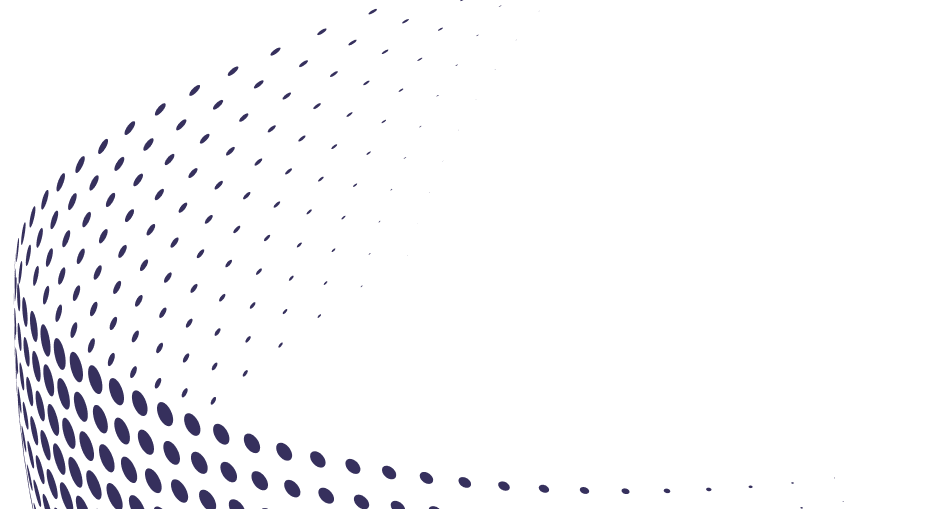
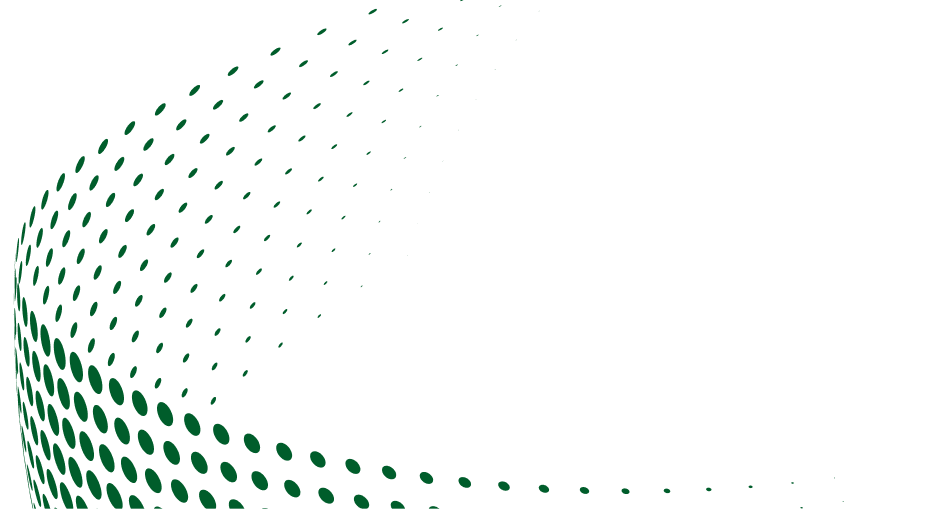
nwe

diff --git a/index-3-one-page.html b/index-3-one-page.html
@@ -1120,89 +1120,13 @@
             </div>
         </section>
         <!-- Blog End -->
-        <div class="client-carousel @@extraClassName">
-            <div class="container">
-                <div class="client-carousel__one eduact-owl__carousel owl-theme owl-carousel" data-owl-options='{
-            "items": 5,
-            "margin": 65,
-            "smartSpeed": 700,
-            "loop":true,
-            "autoplay": 6000,
-            "nav":false,
-            "dots":false,
-            "navText": ["<span class=\"fa fa-angle-left\"></span>","<span class=\"fa fa-angle-right\"></span>"],
-            "responsive":{
-                "0":{
-                    "items":1,
-                    "margin": 0
-                },
-                "450":{
-                    "items":2,
-                    "margin": 0
-                },
-                "768":{
-                    "items":3,
-                    "margin": 40
-                },
-                "992":{
-                    "items": 4,
-                    "margin": 40
-                },
-                "1200":{
-                    "items": 5
-                }
-            }
-            }'>
-                    <div class="client-carousel__one__item">
-                        <img class="client-carousel__normal" src="assets/images/brand/brand-1-1.png" alt="eduact">
-                        <img class="client-carousel__hover" src="assets/images/brand/brand-1-1.png" alt="eduact">
-                    </div><!-- /.owl-slide-item-->
-                    <div class="client-carousel__one__item">
-                        <img class="client-carousel__normal" src="assets/images/brand/brand-1-1.png" alt="eduact">
-                        <img class="client-carousel__hover" src="assets/images/brand/brand-1-1.png" alt="eduact">
-                    </div><!-- /.owl-slide-item-->
-                    <div class="client-carousel__one__item">
-                        <img class="client-carousel__normal" src="assets/images/brand/brand-1-1.png" alt="eduact">
-                        <img class="client-carousel__hover" src="assets/images/brand/brand-1-1.png" alt="eduact">
-                    </div><!-- /.owl-slide-item-->
-                    <div class="client-carousel__one__item">
-                        <img class="client-carousel__normal" src="assets/images/brand/brand-1-1.png" alt="eduact">
-                        <img class="client-carousel__hover" src="assets/images/brand/brand-1-1.png" alt="eduact">
-                    </div><!-- /.owl-slide-item-->
-                    <div class="client-carousel__one__item">
-                        <img class="client-carousel__normal" src="assets/images/brand/brand-1-1.png" alt="eduact">
-                        <img class="client-carousel__hover" src="assets/images/brand/brand-1-1.png" alt="eduact">
-                    </div><!-- /.owl-slide-item-->
-                    <div class="client-carousel__one__item">
-                        <img class="client-carousel__normal" src="assets/images/brand/brand-1-1.png" alt="eduact">
-                        <img class="client-carousel__hover" src="assets/images/brand/brand-1-1.png" alt="eduact">
-                    </div><!-- /.owl-slide-item-->
-                    <div class="client-carousel__one__item">
-                        <img class="client-carousel__normal" src="assets/images/brand/brand-1-1.png" alt="eduact">
-                        <img class="client-carousel__hover" src="assets/images/brand/brand-1-1.png" alt="eduact">
-                    </div><!-- /.owl-slide-item-->
-                    <div class="client-carousel__one__item">
-                        <img class="client-carousel__normal" src="assets/images/brand/brand-1-1.png" alt="eduact">
-                        <img class="client-carousel__hover" src="assets/images/brand/brand-1-1.png" alt="eduact">
-                    </div><!-- /.owl-slide-item-->
-                    <div class="client-carousel__one__item">
-                        <img class="client-carousel__normal" src="assets/images/brand/brand-1-1.png" alt="eduact">
-                        <img class="client-carousel__hover" src="assets/images/brand/brand-1-1.png" alt="eduact">
-                    </div><!-- /.owl-slide-item-->
-                    <div class="client-carousel__one__item">
-                        <img class="client-carousel__normal" src="assets/images/brand/brand-1-1.png" alt="eduact">
-                        <img class="client-carousel__hover" src="assets/images/brand/brand-1-1.png" alt="eduact">
-                    </div><!-- /.owl-slide-item-->
-                </div><!-- /.thm-owl__slider -->
-            </div><!-- /.container -->
-        </div><!-- /.client-carousel -->
         <!-- Call To Action Start -->
         <section class="cta-three" data-jarallax data-speed="0.3" data-imgPosition="50% -100%">
             <div class="cta-three__bg jarallax-img" style="background-image: url(assets/images/backgrounds/cta-bg-3.jpg);"></div>
             <div class="container">
                 <div class="row">
                     <div class="col-md-6 wow fadeInLeft" data-wow-delay="200ms">
-                        <h3 class="cta-three__title"><span>Dapatkan Sertifikat</span><br> dari <span>Sekolah Energi</span></h3>
+                        <h3 class="cta-three__title"><span>Dapatkan Sertifikasi</span><br> dari <span>Sekolah Energi</span></h3>
                     </div>
                     <div class="col-md-6 wow fadeInRight" data-wow-delay="300ms">
                         <div class="cta-three__btn"><a href="contact.html" class="eduact-btn"><span class="eduact-btn__curve"></span>Hubungi Kami</a></div>
@@ -1213,7 +1137,7 @@
         <!-- Call To Action End -->
 
         <footer class="main-footer-two">
-            <div class="main-footer-two__bg" style="background-image: url(assets/images/shapes/footer-bg-2.png);"></div>
+            <div class="main-footer-two__bg" style="background-image: url(assets/images/shapes/footer-bg-2.png);background-position: bottom left"></div>
             <div class="container">
                 <div class="row">
                     <div class="col-xl-4 col-md-5 wow fadeInUp" data-wow-delay="100ms">

diff --git a/assets/css/eduact.css b/assets/css/eduact.css
@@ -12128,7 +12128,7 @@ body.megamenu-popup-active .mobile-nav__content {
 /*-- Copyright --*/
 .copyright {
   position: relative;
-  background-color: #1F1944;
+  background-color: #004B23;
   padding: 27px 0 28px;
 }
 
@@ -12147,7 +12147,7 @@ body.megamenu-popup-active .mobile-nav__content {
 
 /*-- Footer Two --*/
 .main-footer-two {
-  background-color: #004B23;
+  background-color: #007200;
   position: relative;
   padding: 120px 0 115px;
 }
